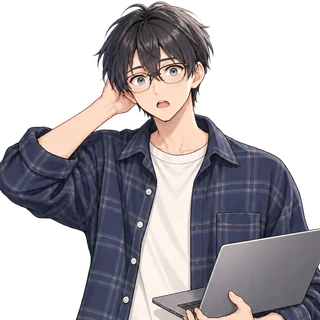
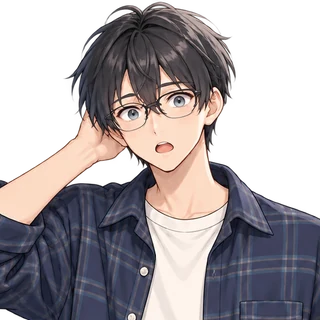
Crop the portraits the way the first case does
The newer characters arrived as half-body sheets, so one global crop gave 小林 a
face and 朵朵 a whole pumpkin. prepare-portraits.py now keeps a zoom per
character, scanned from both source places, and says in its docstring how to set
it for a new arrival: put the picture next to kobayashi-normal.webp first.

azhe 0.58, duoduo 0.64, xiaoyu 0.57 — hair near the top edge, chin about three
quarters down, nothing else in frame. 小林 and 路米 keep 0.82.

diff --git a/scripts/prepare-portraits.py b/scripts/prepare-portraits.py
@@ -1,15 +1,43 @@
 """Prepare the anime-style dialogue portraits for the web.
 
-Usage: python -I scripts/prepare-portraits.py [<source dir>] [<output dir>] [--size 320] [--zoom 0.82]
+Usage: python -I scripts/prepare-portraits.py [--size 320]
 
-Reads the high-resolution portraits (public/art/portraits/<character>-<expression>.png, design sources,
-not committed), crops the head-and-shoulders square from the top, scales it smoothly to a square and
-writes WebP files (public/art/faces/<character>-<expression>.webp) that the dialogue boxes load.
+Reads the high-resolution portraits, crops the head-and-shoulders square from the top, scales it smoothly
+to a square and writes WebP files (public/art/faces/<character>-<expression>.webp) that the dialogue
+boxes load.
+
+Two source places are scanned:
+
+- public/art/portraits/<character>-<expression>.png — the original design sources (not committed)
+- docs/art/review/sources/portrait-<character>-<expression>-source.png — the delivery copies
+
+Framing is per character, because the artists composed the originals at different scales: the same
+zoom on a full-body sheet gives 小林 a face and 朵朵 a whole pumpkin. ZOOM below is chosen so every
+portrait fills the frame the way the first case does — hair near the top edge, chin around three
+quarters down, nothing else in the picture. When a new portrait arrives, look at it next to
+kobayashi-normal.webp and set ZOOM for that character instead of trusting one global number.
 """
 import argparse
 from pathlib import Path
 
 from PIL import Image
+
+# character -> how far to crop in from the top of the sheet (1 = full width).
+ZOOM = {
+    "kobayashi": 0.82,
+    "lumi": 0.82,
+    "azhe": 0.58,
+    "duoduo": 0.64,
+    "xiaoyu": 0.57,
+}
+DEFAULT_ZOOM = 0.58
+
+
+def character_of(stem: str) -> str:
+    """"azhe-normal" or "portrait-duoduo-happy-source" -> "azhe" / "duoduo"."""
+    name = stem[len("portrait-"):] if stem.startswith("portrait-") else stem
+    name = name[:-len("-source")] if name.endswith("-source") else name
+    return name.rsplit("-", 1)[0]
 
 
 def prepare(source: Path, size: int, zoom: float) -> Image.Image:
@@ -23,16 +51,29 @@ def prepare(source: Path, size: int, zoom: float) -> Image.Image:
 def main() -> None:
     root = Path(__file__).resolve().parent.parent
     parser = argparse.ArgumentParser(description=__doc__.splitlines()[0])
-    parser.add_argument("source", type=Path, nargs="?", default=root / "public" / "art" / "portraits")
     parser.add_argument("output", type=Path, nargs="?", default=root / "public" / "art" / "faces")
     parser.add_argument("--size", type=int, default=320)
-    parser.add_argument("--zoom", type=float, default=0.82, help="crop closer to the face (1 = full width)")
+    parser.add_argument("--zoom", type=float, default=None, help="override ZOOM for every character")
     args = parser.parse_args()
     args.output.mkdir(parents=True, exist_ok=True)
-    for source in sorted(args.source.glob("*.png")):
-        target = args.output / f"{source.stem}.webp"
-        prepare(source, args.size, args.zoom).save(target, "WEBP", quality=88, method=6)
-        print(f"{source.name} -> {target.name} ({target.stat().st_size} bytes)")
+
+    places = [
+        (root / "public" / "art" / "portraits", ""),
+        (root / "docs" / "art" / "review" / "sources", "portrait-"),
+    ]
+    for place, prefix in places:
+        if not place.exists():
+            continue
+        for source in sorted(place.glob(f"{prefix}*.png")):
+            stem = source.name[:-len(".png")]
+            character = character_of(stem)
+            if character not in ZOOM:
+                print(f"skip {source.name}: no ZOOM for {character} (add one to ZOOM)")
+                continue
+            zoom = args.zoom or ZOOM.get(character, DEFAULT_ZOOM)
+            target = args.output / f"{stem[len(prefix):].replace('-source', '')}.webp"
+            prepare(source, args.size, zoom).save(target, "WEBP", quality=88, method=6)
+            print(f"{source.name} -> {target.name} (zoom {zoom}, {target.stat().st_size} bytes)")
 
 
 if __name__ == "__main__":

diff --git a/docs/art/requests-case-rooms.md b/docs/art/requests-case-rooms.md
@@ -50,7 +50,9 @@
 | 朵朵 `duoduo` | `public/art/pixel/anim-duoduo.png` + `.json` | 待机 2、抱紧抱枕 4 | **已接入**（256×192，4×2 格，64×96/帧） |
 | 小雨 `xiaoyu` | `public/art/pixel/anim-xiaoyu.png` + `.json` | 待机 2、蹦一下 4 | **已接入**（同上规格） |
 
-**对话头像**：朵朵四表情与小雨缺的三种表情已出 320×320 WebP，登记为「待验收」；小雨 normal 保留现有资源。裁切对照见 `docs/art/review/portraits/avatar-crops-320-review.png`，接入方需核对头像裁切和表情映射。
+**对话头像**：朵朵四表情与小雨缺的三种表情已出 320×320 WebP，登记为「待验收」；小雨 normal 保留现有资源。
+
+> 2026-10-17 接入时按第一关的构图重裁过：阿哲、朵朵、小雨的源图是半身全身图，用同一个缩放裁出来脸只有小林的四成。`scripts/prepare-portraits.py` 现在按角色记缩放（azhe 0.58 / duoduo 0.64 / xiaoyu 0.57，小林和路米 0.82），新角色来了先和 `kobayashi-normal.webp` 比一比再定系数，不要再图省事用一个全局值。裁切对照见 `docs/art/review/portraits/avatar-crops-320-review.png`，接入方需核对头像裁切和表情映射。
 
 **还缺王奶奶**：客厅这一关已经能玩，但王奶奶没有头像，对话框里显示写着「王」字的木框。需要四张 `grandma-normal.webp` / `grandma-happy.webp` / `grandma-thinking.webp` / `grandma-surprised.webp`，规格同其他角色（320×320、透明、头肩）。设计要点：灰白短发、老花镜挂在领口、深绿开衫，和客厅占位里的形象一致。
 
@@ -63,16 +65,18 @@
 
 接入完成后，接入方负责把 `samples/cases/*/workbench-case.json` 里对应 `items[].art` 换成新图，并复核 `stand` 站位与 `room.blocks` 碰撞（站位之间要留 ≥24 的间距，交互半径是 22）。
 
-## 六、阿哲的机房（`case-room-weather-keys`）：2026-10-17 起可以玩了，等美术
+## 六、阿哲的机房（`case-room-weather-keys`）：美术候选已交付，待接入验收
 
-序章第四个委托「天气小助手」已经做成能走进去的房间：两个机柜、一张摆放电脑的桌子、墙上的屏幕，六件调查物都能走到。现在用的是代码画的深色机房占位图，`scene.look` 是 `server`，家具位置已经和碰撞块对齐。
+序章第四个委托「天气小助手」已经做成能走进去的房间：两个机柜、一张摆放电脑的桌子、墙上的屏幕，六件调查物都能走到。机房背景和六件透明调查道具已生成并放到目标目录，当前仍待接入方在游戏场景中核对比例、锚点和调查流程。
 
 | 要交什么 | 目标文件 | 逻辑尺寸 | 说明 |
 |---|---|---|---|
-| 机房背景 | `public/art/pixel/case-room-weather-keys.png` | 320×180（交 640×360 或 1664×936） | 秋季雨天白天；左边和右边各一个机柜、中间一张摆放电脑的桌子、墙上一块屏幕；不要画调查物 |
-| 电脑 / 便签 / 打印件 / 机柜 / 链布清单 / 路由器 | `case-props/` 下同名文件 | 各 12–30 逻辑宽 | 现在全部是借用道具或代码图标 |
+| 机房背景 | `public/art/pixel/case-room-weather-keys.png` | 640×360 运行图（逻辑 320×180） | 秋季雨天白天；空机柜、空桌面、墙屏和通道；候选已出，待场景预览验收 |
+| 电脑 / 便签 / 打印件 / 机柜服务器 / 发布清单 / 路由器 | `public/art/pixel/case-props/weather-keys-{monitor,todo,printout,rack,poster,router}.png` | 宽 60 / 40 / 44 / 52 / 40 / 40 px（2×逻辑宽） | 独立透明像素稿已出，待房间内锚点与比例验收 |
 
-家具位置（背景画好后按这个对齐，或画完由接入方重新量）：
+道具裁切和背景预览见 `docs/art/review/weather-keys/weather-keys-props-contact.png`、`docs/art/review/weather-keys/case-room-weather-keys-art-preview.png` 与 `docs/art/review/case-room-weather-keys-v2-candidate.png`；完整道具源稿为 `docs/art/review/sources/weather-keys-props-sheet-source.png`。运行文件已放入目标目录，`items[].art` 映射和实际试玩仍由接入方验收后处理。
+
+家具位置（按当前可玩关卡坐标）：
 
 - 左机柜 `x 14–72, y 44–136`；右机柜 `x 242–316, y 40–140`
 - 桌子 `x 94–226, y 96–126`（桌面 y≈96）

diff --git a/docs/art/asset-requirements.md b/docs/art/asset-requirements.md
@@ -112,7 +112,7 @@
 
 | 场景 | 背景文件 | `case-props/` 下物品 |
 |---|---|---|
-| 阿哲机房，秋季雨天白天 | `case-room-weather-keys.png` | `monitor.png`、`sticky.png`、`server.png`、`launch-poster.png`、`flyer.png`、`umbrella.png` |
+| 阿哲机房，秋季雨天白天 | `case-room-weather-keys.png` | 按当前关卡清单：`weather-keys-monitor.png`、`weather-keys-todo.png`、`weather-keys-printout.png`、`weather-keys-rack.png`、`weather-keys-poster.png`、`weather-keys-router.png` |
 | 周姐办公室，秋季晴天中午 | `case-room-notes-versions.png` | `screen.png`、`sticky-wall.png`、`coffee.png`、`xiaoke-ad.png`、`printer.png`、`plant.png` |
 | 王奶奶客厅，傍晚/夜晚 | `case-room-flashlight-apk-evening.png`、`case-room-flashlight-apk-night.png` | `grandma-phone.png`、`glasses.png`、`mantel-clock.png`、`photo.png`、`addressbook.png`、`nightlight.png` |
 
